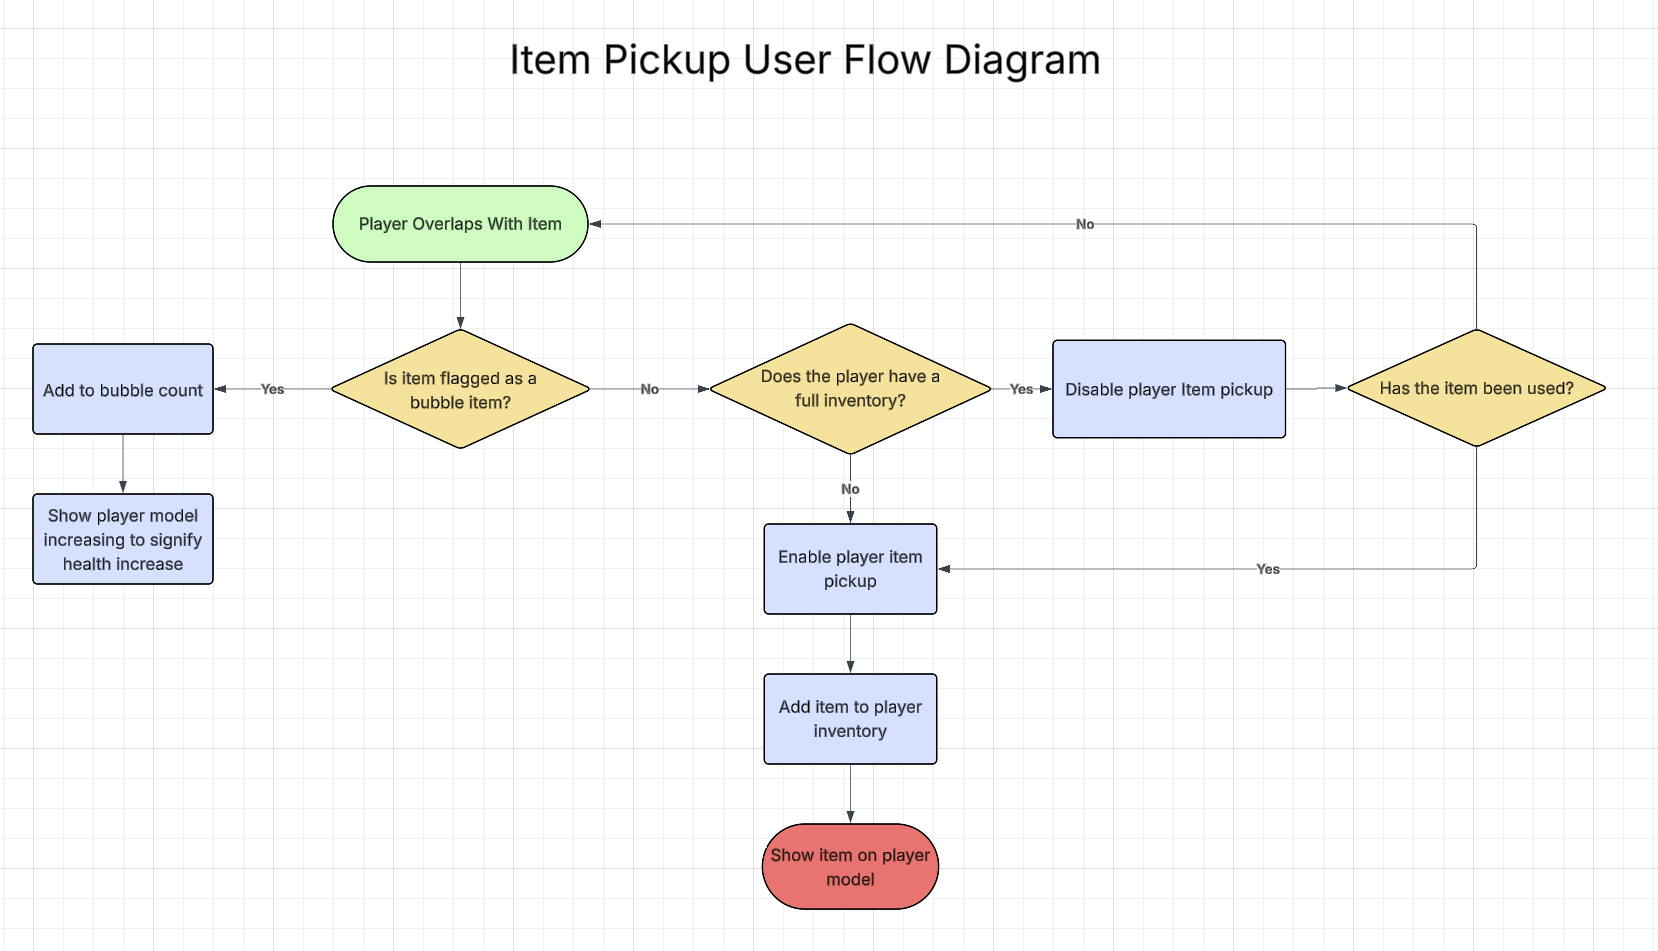
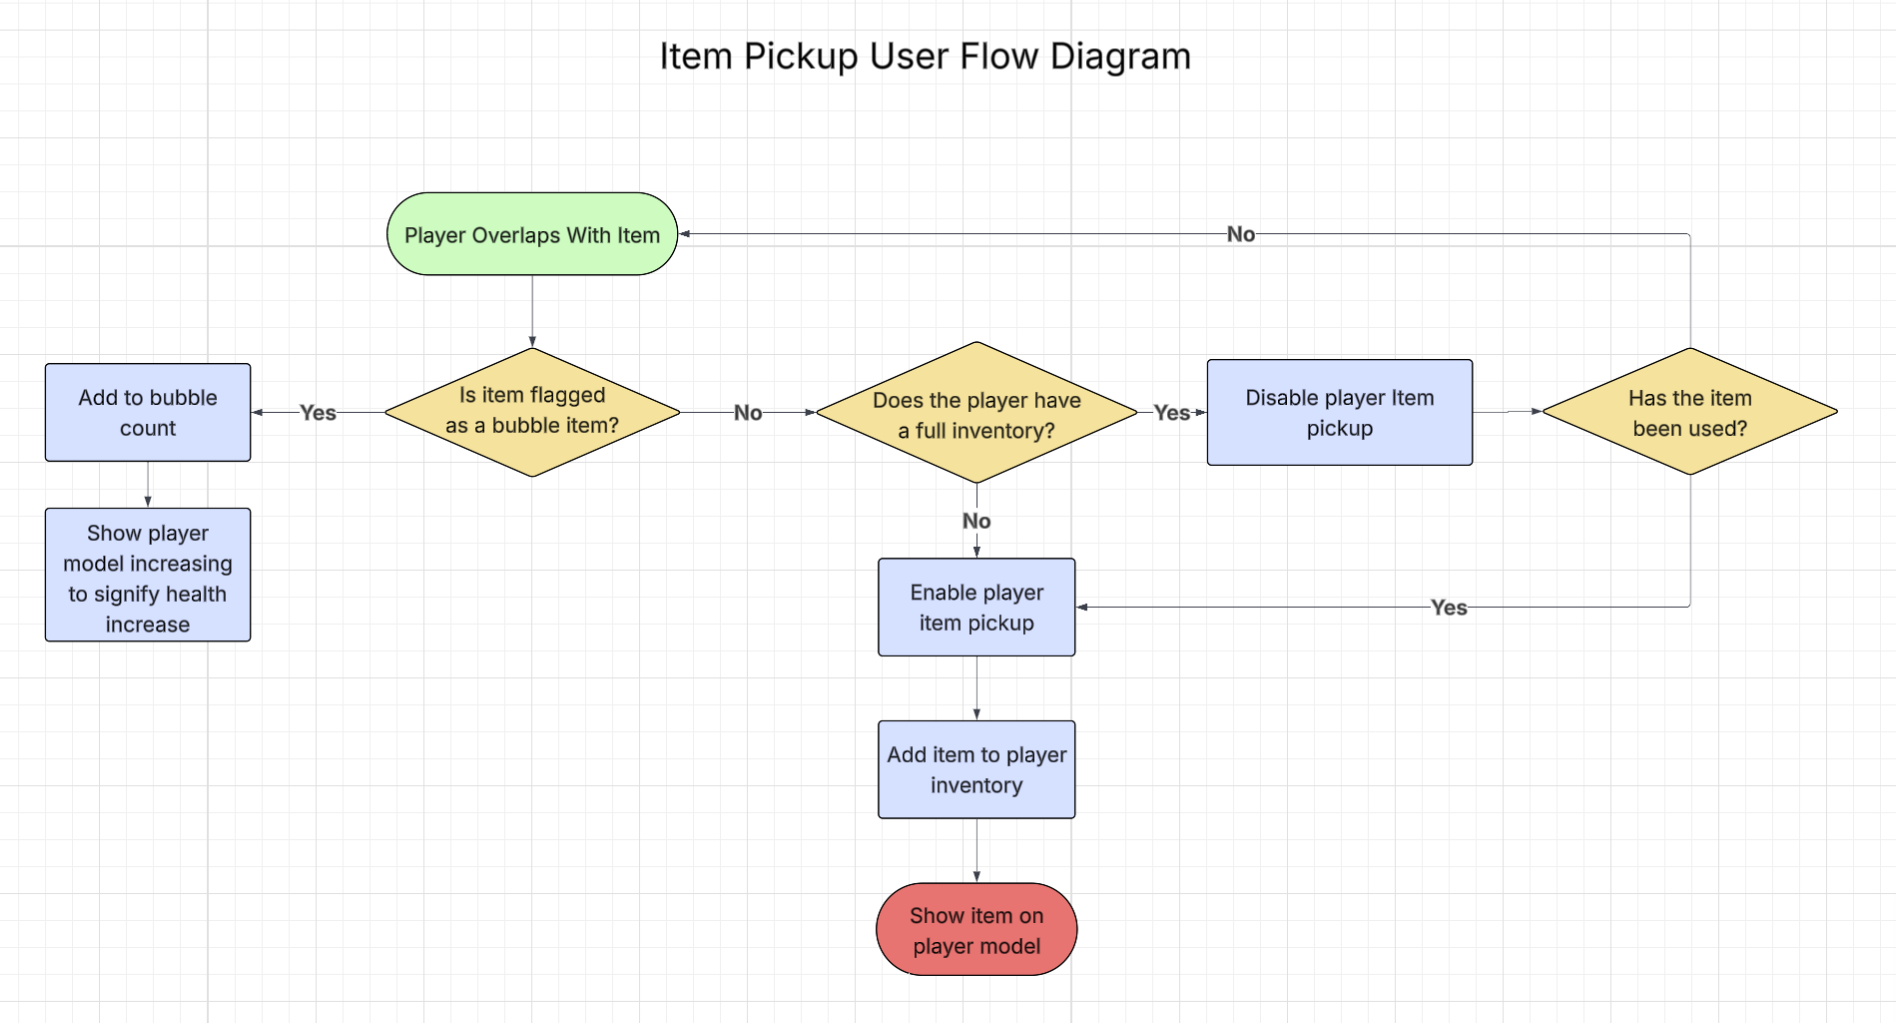
MORE image adjustments

diff --git a/css/style.css b/css/style.css
@@ -324,5 +324,5 @@ img[alt="user_flow_diagram"] {
 }
 
 img[alt="user_flow_diagram_key"] {
-  max-width: 30%;
+  max-width: 60%;
 }
